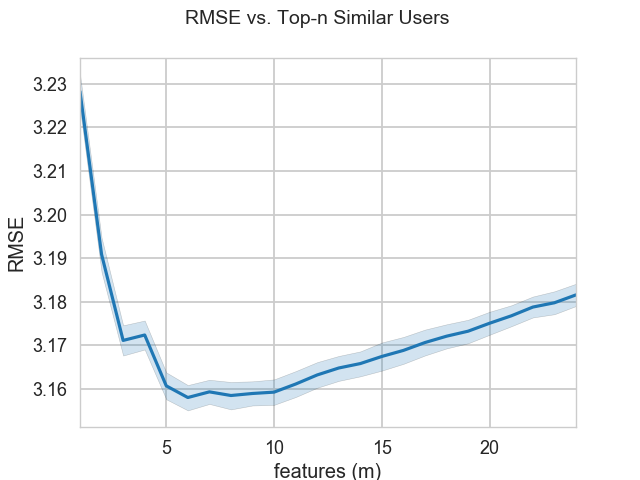
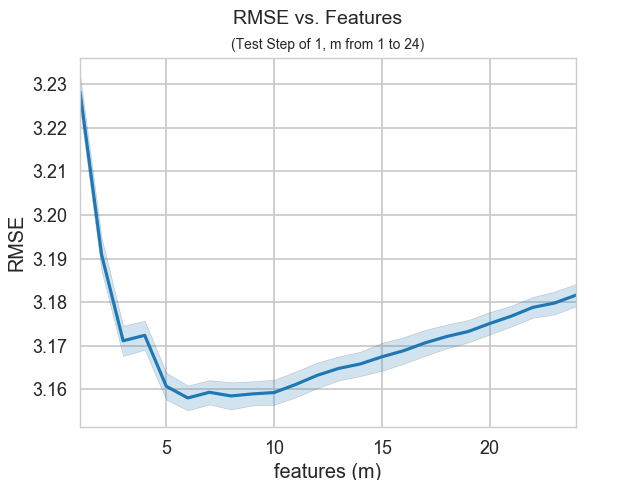
update manual and clean up codes

diff --git a/dataset_description.py b/dataset_description.py
@@ -23,9 +23,9 @@ rcParams['patch.force_edgecolor'] = True
 # movie. The third entry is the rating, in this dataset, all ratings are integers
 # in range 1 to 5. The last entry is a time stamp, which is unix seconds since 1/1/1970 UTC.
 
-ratings =  pd.read_csv('ml-100k/u.data', sep='\t',  header=0, 
+ratings =  pd.read_csv('data/ml-100k/u.data', sep='\t',  header=0, 
                        names=['userId', 'movieId', 'rating','timestamp'], engine='python').astype(int)
-print(ratings.head())
+# print(ratings.head())
 
 
 # # User Description
@@ -40,7 +40,7 @@ fig, (ax1, ax2) = plt.subplots(ncols=2, figsize=(12,5))
 plt.suptitle('User Rating Distribution',fontsize=20)
 sns.distplot(ratings['userId'].value_counts(), kde=False, ax=ax1)
 sns.distplot(ratings['userId'].value_counts(), ax=ax2)
-plt.show()
+plt.savefig('plot/user_rating.png')
 
 # # Movie Description
 # We have a total of 1682 users. They have been rated at least 1 time and at most 583
@@ -52,7 +52,7 @@ fig, (ax1, ax2) = plt.subplots(ncols=2, figsize=(12,5))
 plt.suptitle('Movie Rated Distribution',fontsize=20)
 sns.distplot(ratings['movieId'].value_counts(), kde=False, ax=ax1)
 sns.distplot(ratings['movieId'].value_counts(), ax=ax2)
-plt.show()
+plt.savefig('plot/movie_rating.png')
 
 
 # # Ratings Description
@@ -64,4 +64,4 @@ print(ratings['rating'].describe())
 fig, (ax1) = plt.subplots(ncols=1, figsize=(6,5))
 plt.suptitle('Rating Distribution',fontsize=20)
 sns.distplot(ratings['rating'], kde=False, ax=ax1)
-plt.show()
+plt.savefig('plot/rating.png')

diff --git a/matrix_factorization_svd.py b/matrix_factorization_svd.py
@@ -9,11 +9,11 @@ training_files = ['data/training/train_1.dat', 'data/training/train_2.dat',
                   'data/training/train_3.dat', 'data/training/train_4.dat', 'data/training/train_5.dat']
 validation_files = ['data/validation/validation_1.dat', 'data/validation/validation_2.dat',
                    'data/validation/validation_3.dat', 'data/validation/validation_4.dat', 'data/validation/validation_5.dat']
-out_file = 'exp_result/mf_rmse_step1.csv' # change out file name
+out_file = 'exp_result/mf_rmse_step5.csv' # change out file name
 # result
 rmse = {}
 
-for m in range(1, 25):  # change testing m and step
+for m in range(25, 76, 5):  # change testing m and step
     print("m = ", m)
     rmse[m] = [0 for _ in range(5)]
     for case in range(5):

diff --git a/RMSE_plot.py b/RMSE_plot.py
@@ -13,14 +13,14 @@ sns.set_style("whitegrid")
 rcParams['patch.force_edgecolor'] = True
 # get_ipython().magic('matplotlib inline')
 
-df = pd.read_csv('exp_result/mf_rmse_step1.csv')
+df = pd.read_csv('exp_result/mf_rmse_step50.csv') # read a csv file
 df = df.set_index('Unnamed: 0')
 df = df.transpose()
 df.columns.name = 'features (m)'
 # df.head()
 
-plt.suptitle('RMSE vs. Top-n Similar Users ',fontsize=14)
-# plt.title('(Test Step of 1, m from 1 to 24)', fontsize=10)
+plt.suptitle('RMSE vs. Features ',fontsize=14)
+plt.title('(Test Step of 50, m from 1 to 251)', fontsize=10)
 sns.tsplot(data=df.as_matrix(), time=df.columns, value='RMSE')
-plt.savefig('plot/mf_rmse_step1.png')
+plt.savefig('plot/mf_rmse_step50.png') # output to a png
 

diff --git a/top_k_mf.py b/top_k_mf.py
@@ -7,7 +7,7 @@ from sklearn.metrics import mean_squared_error
 
 training_file = 'data/training/train.dat'
 testing_file = 'data/testing/test.dat'
-
+out_file = 'exp_result/mf_performance.csv'
 m = 6
 precisions = {}
 recalls = {}
@@ -72,4 +72,4 @@ summary_df = pd.DataFrame()
 summary_df['Precision'] = pd.Series(precisions)
 summary_df['Recall'] = pd.Series(recalls)
 summary_df['Accuracy'] = pd.Series(hits)
-summary_df.to_csv('mf_performance.csv')
+summary_df.to_csv(out_file)
